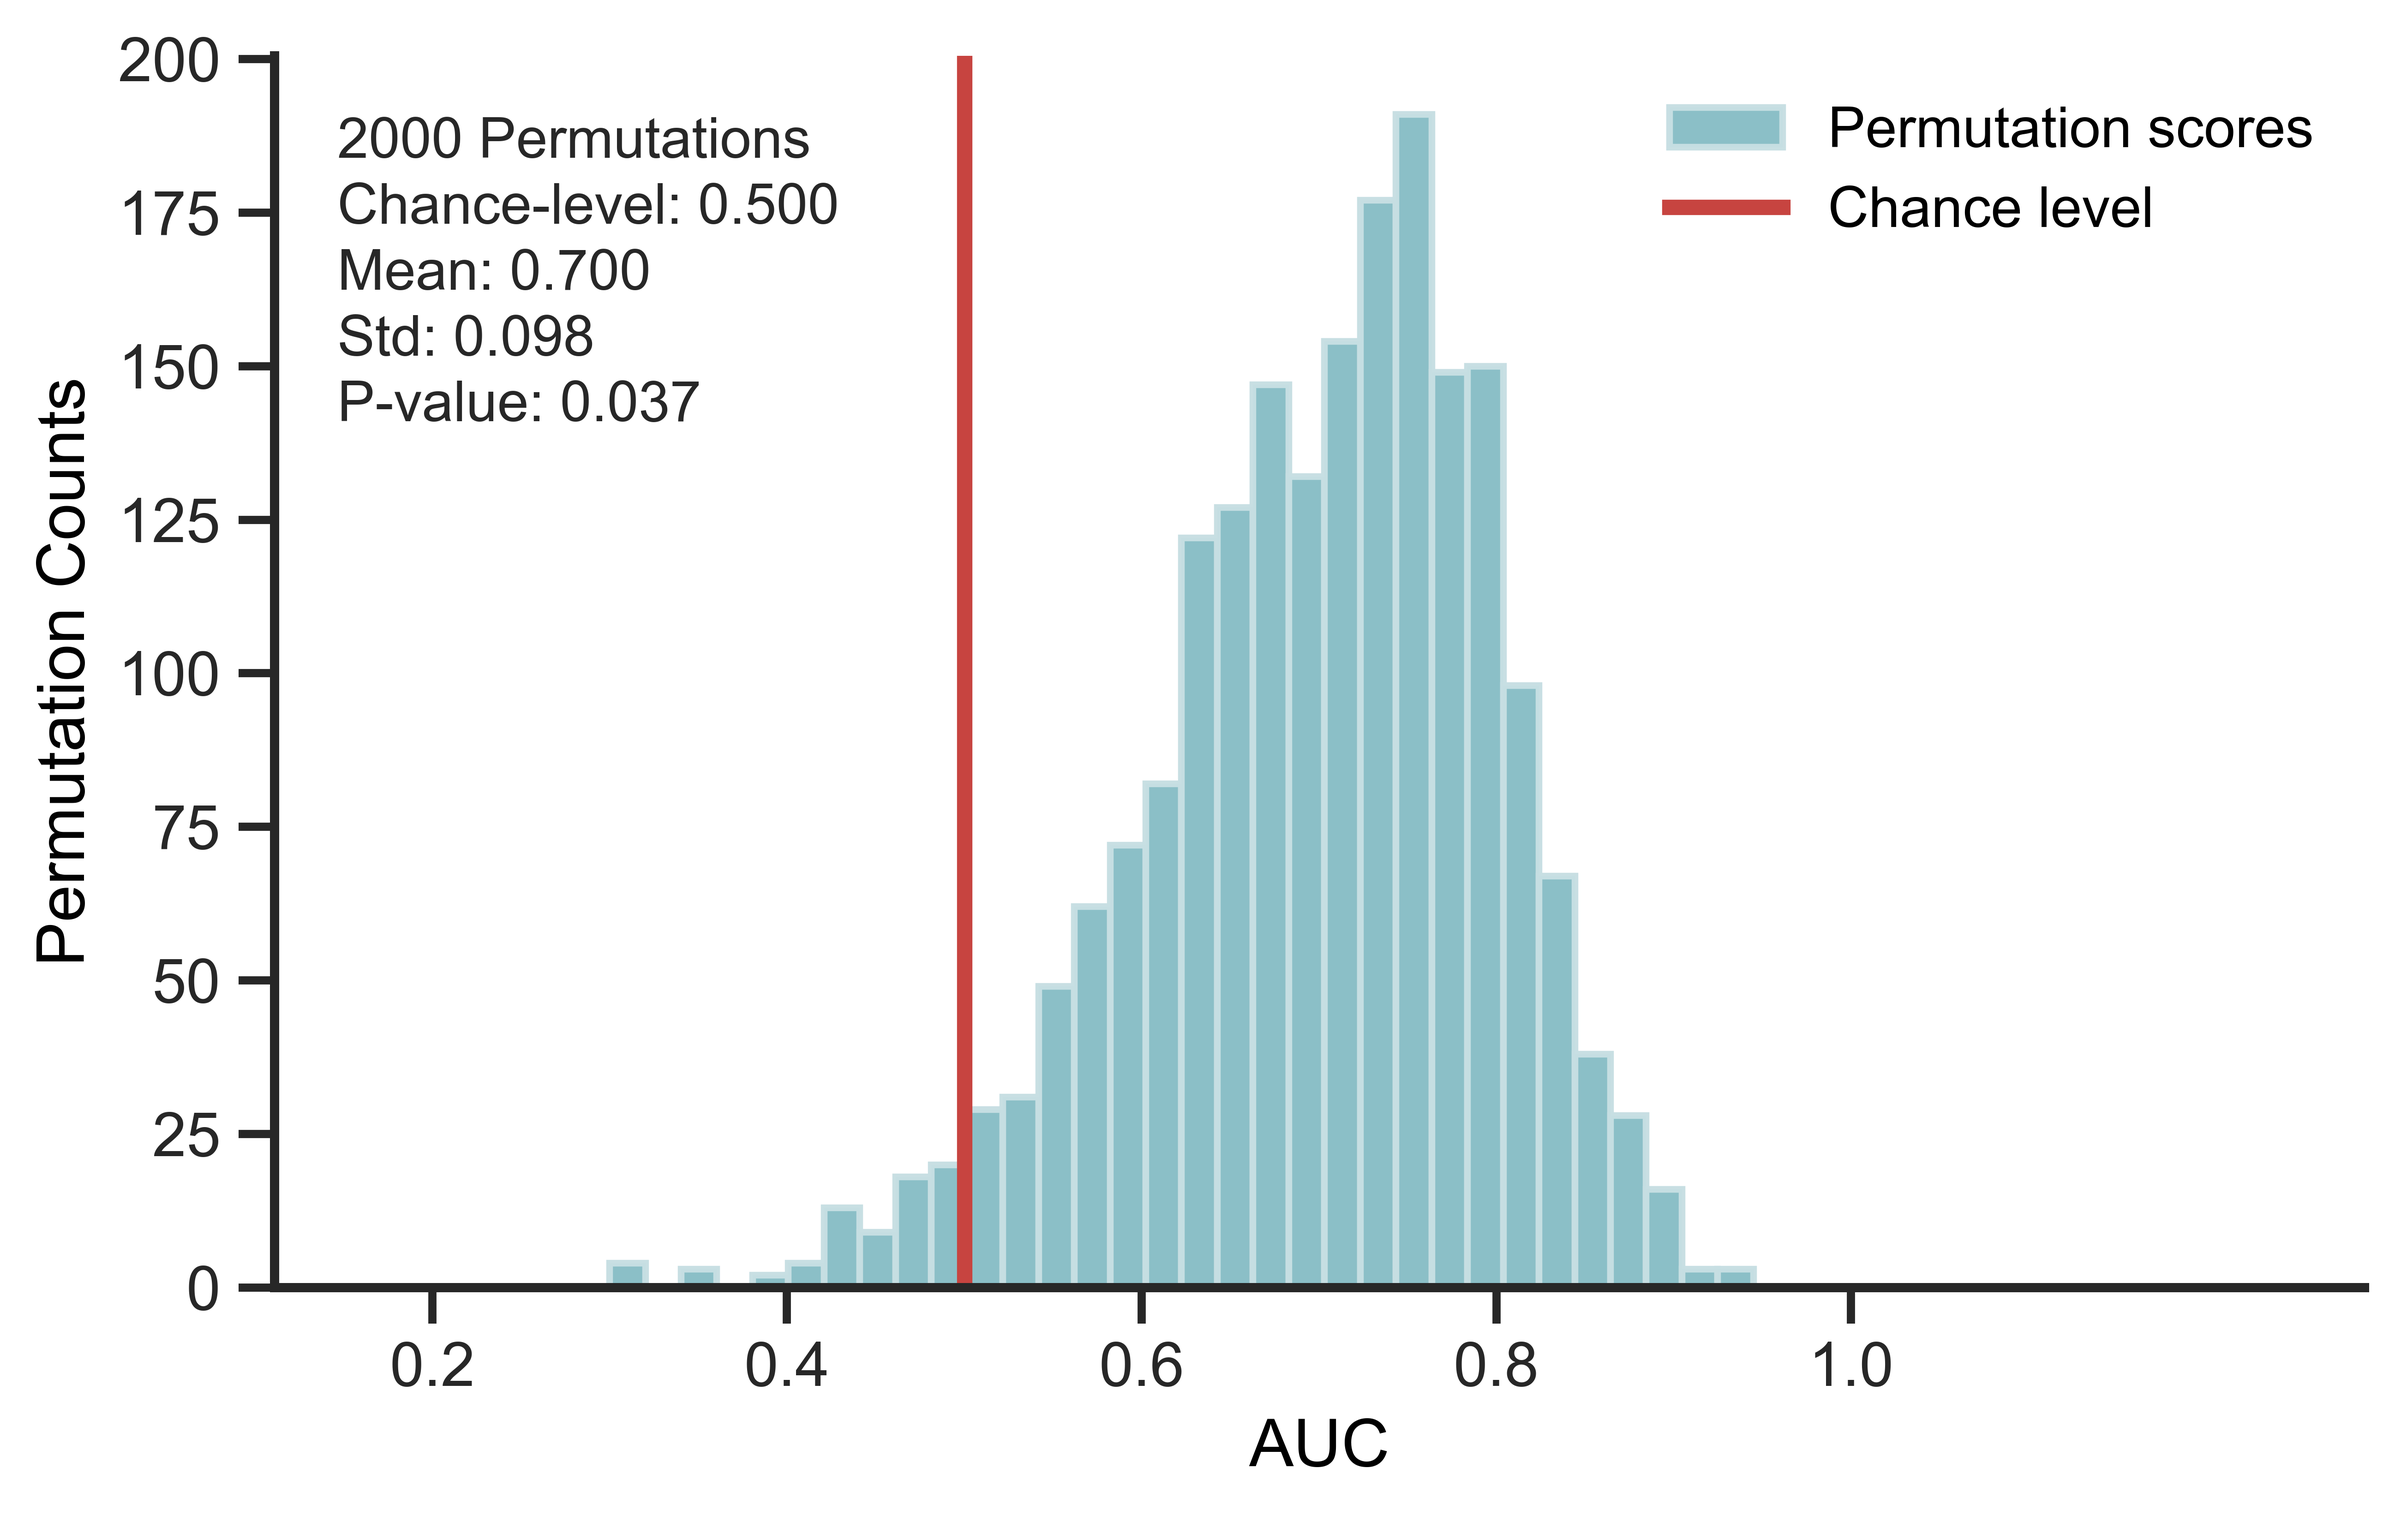
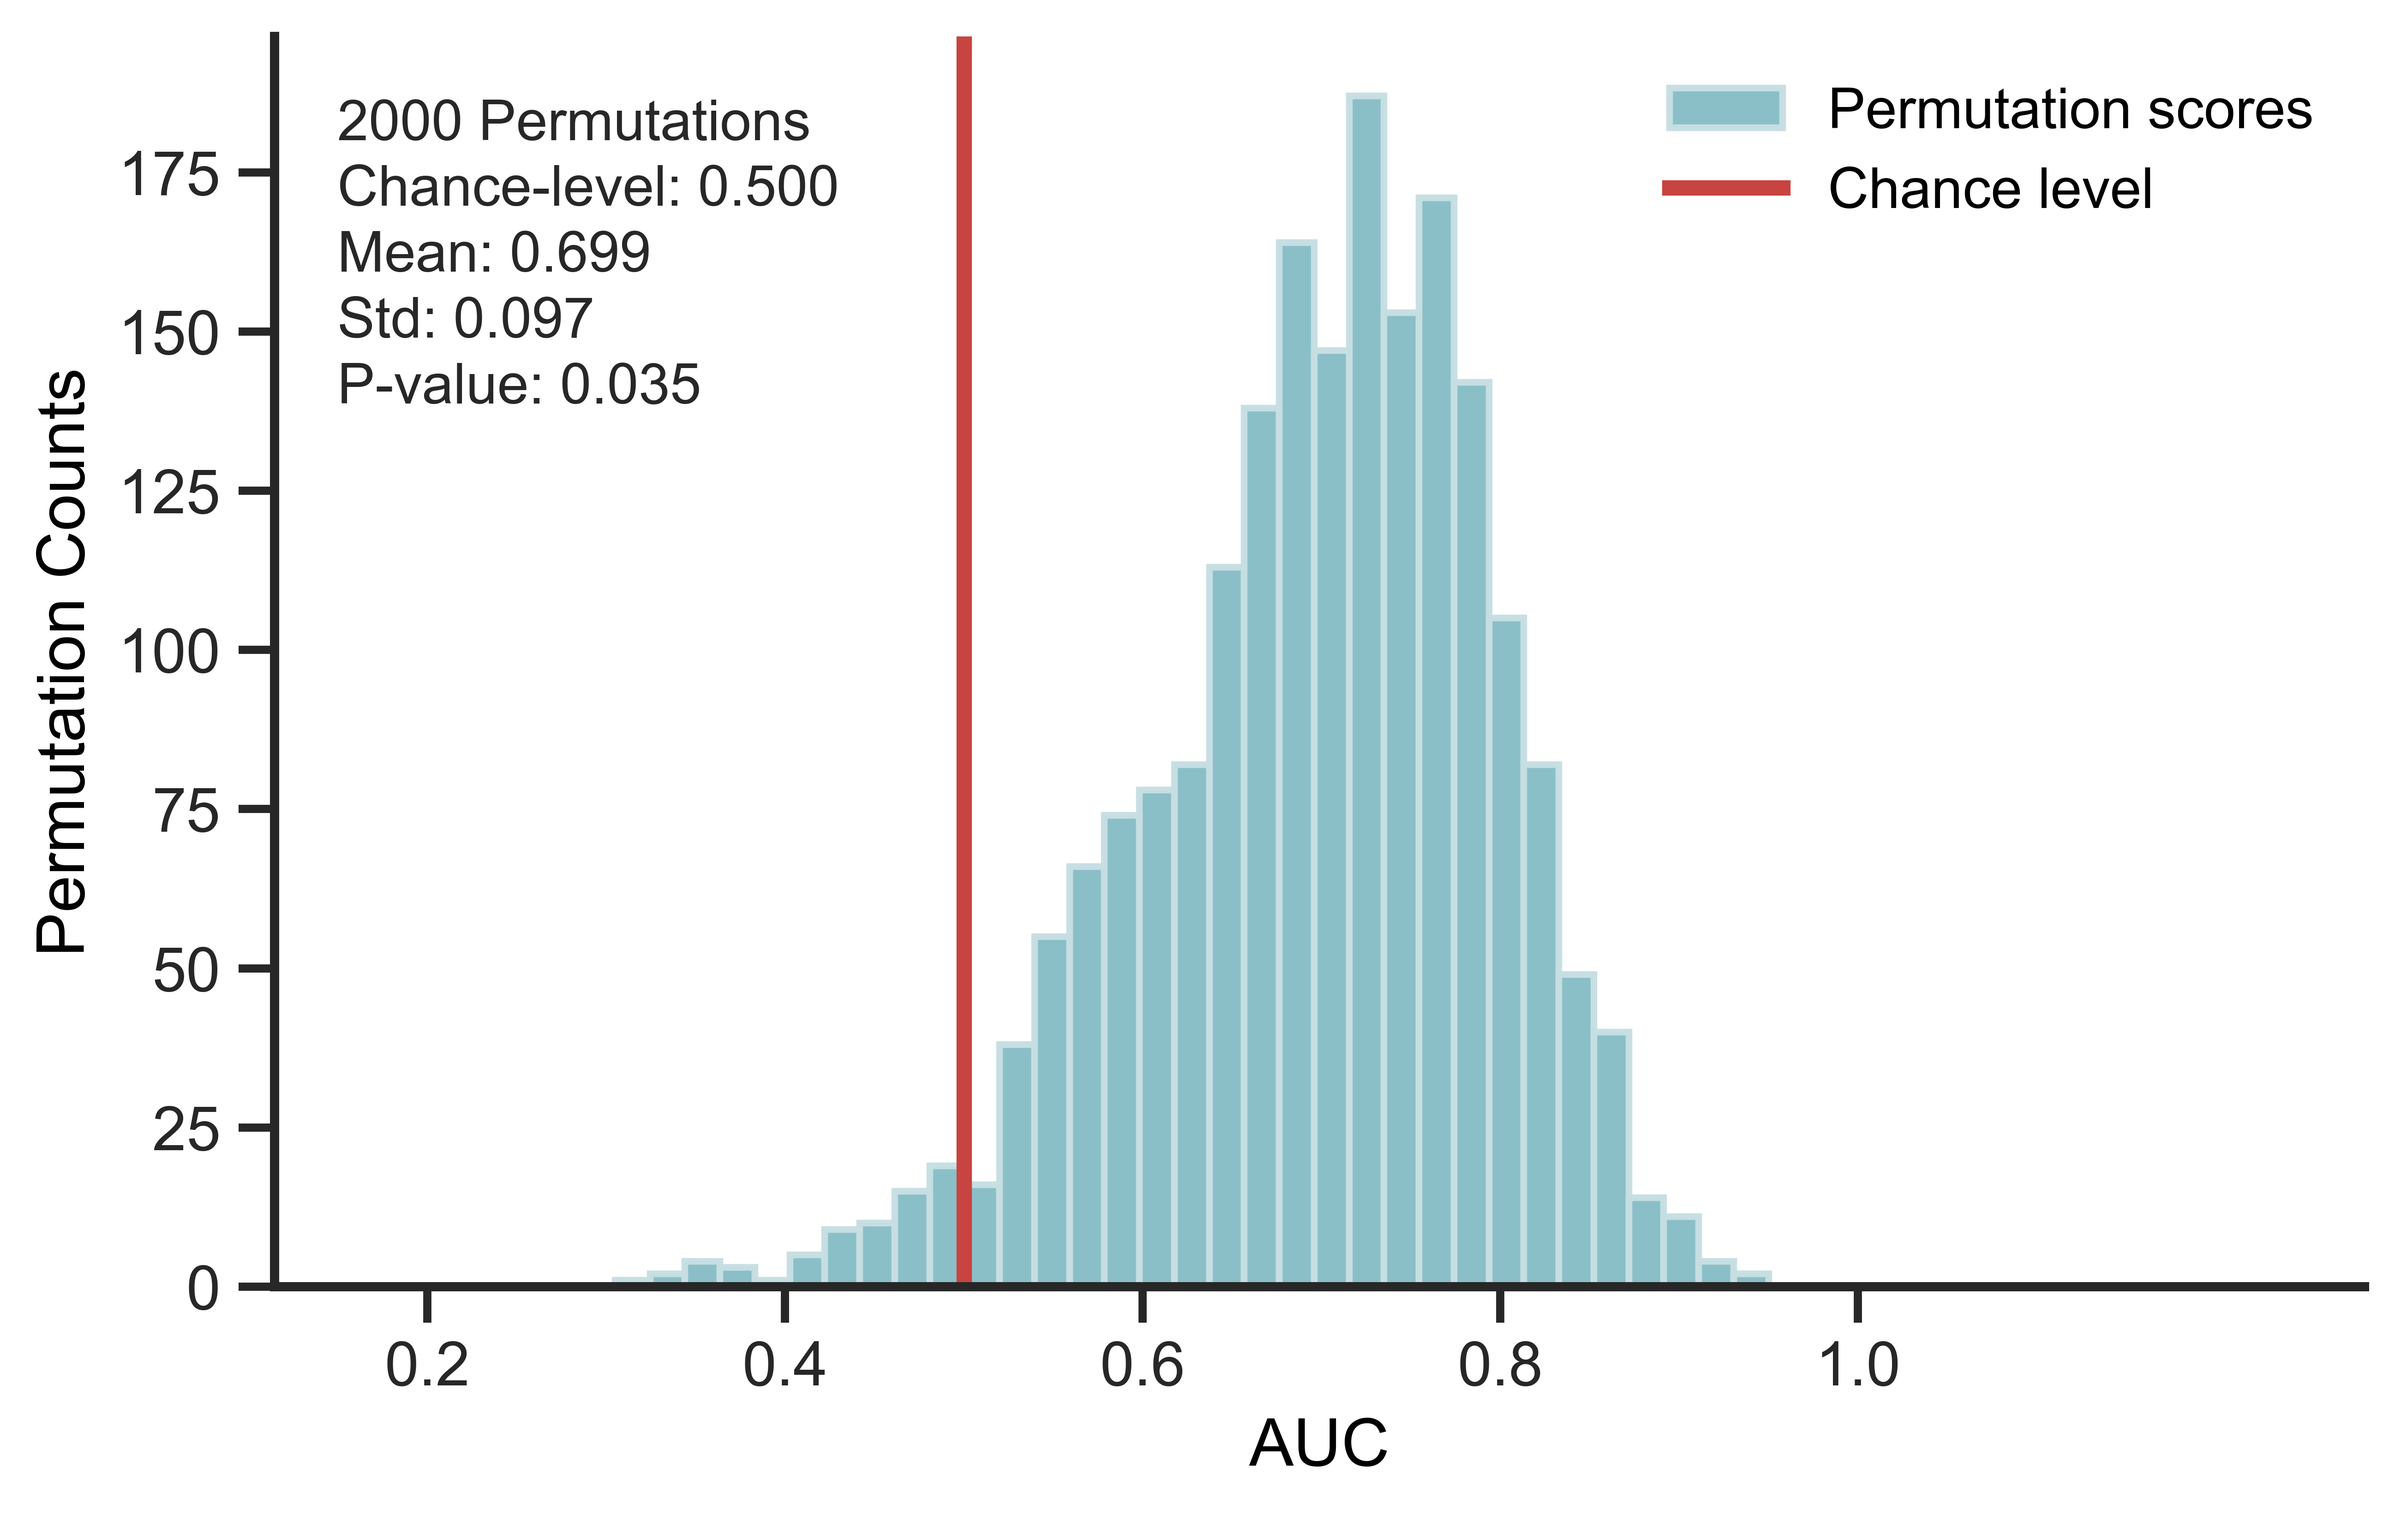
initial release

diff --git a/README.md b/README.md
@@ -4,7 +4,7 @@
 
 <p align="center">
   <a href="https://pypi.org/project/Leakly/"><img alt="PyPI" src="https://img.shields.io/pypi/v/Leakly.svg"></a>
-  <a href="https://github.com/DeMONLab-BioFINDER/Leakly/actions/workflows/ci.yml"><img alt="Build" src="https://github.com/DeMONLab-BioFINDER/Leakly/actions/workflows/ci.yml/badge.svg"></a>
+  <a href="https://github.com/DeMONLab-BioFINDER/Leakly/actions/workflows/ci.yml?query=branch%3Amain"><img alt="Build" src="https://github.com/DeMONLab-BioFINDER/Leakly/actions/workflows/ci.yml/badge.svg?branch=main"></a>
   <a href="https://github.com/DeMONLab-BioFINDER/Leakly/blob/main/LICENSE"><img alt="License" src="https://img.shields.io/badge/license-MIT-green.svg"></a>
 </p>
 
